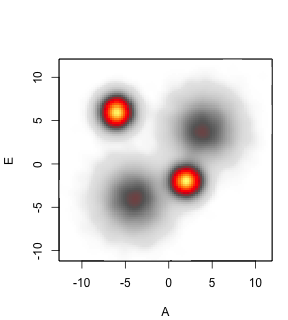
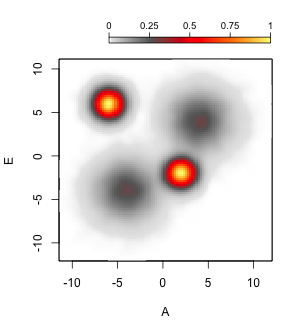
Version 0.5.8

diff --git a/README.md b/README.md
@@ -28,7 +28,7 @@ library(Barbouille)
 
 ```r
 # Create a color mapping function
-cmf <- function(k) colorize(k, mode = "01", col = "ry")
+cmf <- function(k) colorize(k, mode = "01", col = "Wry")
 ```
 
 With any matrix representing observations of numeric variables,
@@ -52,8 +52,8 @@ r <- SideBySideDensity(x, nx = 200, method = "ash") # Example 3
 ```r
 # Examples using a custom color mapping function (cmf)
 r <- SideBySideDensity(x, nx = 200, mapper = cmf, smoothx = 5)                     # Example 1
-r <- SideBySideDensity(x, nx = 200, jitter = "norm", mapper = cmf)                 # Example 2
-r <- SideBySideDensity(x, nx = 200, jitter = "norm", mapper = cmf, method = "ash") # Example 3
+r <- SideBySideDensity(x, nx = 200, mapper = cmf, jitter = "norm")                 # Example 2
+r <- SideBySideDensity(x, nx = 200, mapper = cmf, jitter = "norm", method = "ash") # Example 3
 ```
 
 ![](./images/gallery/barbouille_04.png "example")
@@ -132,7 +132,7 @@ Run the `R` code below to install `Barbouille`.
 
 ```R
 library("devtools")
-install_github("benja0x40/Barbouille")
+install_github("benja0x40/Barbouille", dependencies = T)
 ```
 
 If the installation fails, try to install dependencies as indicated
